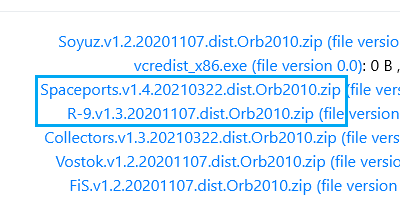
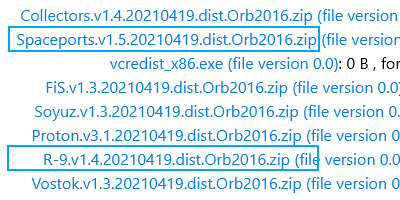
Updated download links for Igel's addon

Changed region(s): [[0.0, 0.03, 1.0, 0.99]]

diff --git a/mods/r-9-install.html b/mods/r-9-install.html
@@ -18,51 +18,35 @@
     <h1>R-9 MODのダウンロード・インストール</h1>
 
 
-    <p><strong>R-9 v1.3</strong>は、<a href="/basic/orbiter2010.html">Orbiter2010</a>でR-9 ICBMを再現したMODです。<br>
-      Orbiter2016には対応していません。</p>
-    <p>こちらの文章もあわせてお読みください。<br>
+    <p>
+      <strong>R-9 v1.3</strong>は、R-9 ICBMを再現したMODです。
+    </p>
+
+    <p>
+      こちらの文章もあわせてお読みください。<br>
       <a href="/misc/r-9-icbm.html">R-9 ICBMの歴史（翻訳）</a>
     </p>
 
     <nav>
       <ul>
-        <li>
-          <a href="#download">ダウンロード</a>
-        </li>
-        <li>
-          <a href="#install">インストール</a>
+        <li><a href="#download">ダウンロード</a></li>
+        <li><a href="#install">インストール</a>
           <ul>
-            <li>
-              <a href="#install_shutdown">シャットダウン方法の設定</a>
-            </li>
+            <li><a href="#install_shutdown">シャットダウン方法の設定</a></li>
           </ul>
         </li>
-        <li>
-          <a href="#scenarios">シナリオ</a>
+        <li><a href="#scenarios">シナリオ</a>
           <ul>
-            <li>
-              <a href="#scenarios_demo">R-9 Demos</a>
-            </li>
-            <li>
-              <a href="#scenarios_historical">R-9 Historical Tests</a>
-            </li>
-            <li>
-              <a href="#scenarios_warstrikes">R-9 War Strikes</a>
-            </li>
+            <li><a href="#scenarios_demo">R-9 Demos</a></li>
+            <li><a href="#scenarios_historical">R-9 Historical Tests</a></li>
+            <li><a href="#scenarios_warstrikes">R-9 War Strikes</a></li>
           </ul>
         </li>
-        <li>
-          <a href="#key">キー操作一覧</a>
+        <li><a href="#key">キー操作一覧</a>
           <ul>
-            <li>
-              <a href="#key_rocket">ロケットなどの操作</a>
-            </li>
-            <li>
-              <a href="#key_des_n">Desna-N（地上発射用のテーブル）</a>
-            </li>
-            <li>
-              <a href="#key_des_v">Desna-V（地下サイロ）</a>
-            </li>
+            <li><a href="#key_rocket">ロケットなどの操作</a></li>
+            <li><a href="#key_des_n">Desna-N（地上発射用のテーブル）</a></li>
+            <li><a href="#key_des_v">Desna-V（地下サイロ）</a></li>
           </ul>
         </li>
       </ul>
@@ -72,13 +56,18 @@
     <h2 id="download">ダウンロード</h2>
 
 
+    <p class="caution">
+      2024年4月現在、<strong>Orbiter2010</strong>対応版はダウンロードできなくなっています。
+    </p>
+
     <p>
       以下のリンクをクリック。
     </p>
 
     <p>
-      <a href="https://www.orbithangar.com/showAddon.php?id=dcaa4ea8-711a-46c7-a167-49e7254da801"
-        target="_blank">Orb2010 VesselM Pack</a>
+      <a href="https://web.archive.org/web/20211028123939/https://www.orbithangar.com/showAddon.php?id=0bb66462-d9cc-4f68-95f3-482bc319a5c7"
+        target="_blank" rel="noopener noreferrer">Orb2016 VesselM Pack</a><br>
+      （Internet Archiveへのリンク。このMODは再配布が許可されています）
     </p>
 
     <p>
@@ -91,16 +80,14 @@
       <li>R-9.v1.3.20201107.dist.Orb2010.zip</li>
     </ul>
 
+    <p>
+      <strong>Internet Archive</strong>のリンクの場合は、ダウンロードリンクを右クリック。<br>
+      <kbd>名前を付けてリンク先を保存</kbd>をクリックするとダウンロードが開始する。
+    </p>
+
     <figure>
       <img loading="lazy" src="/images/mods/r-9-install/000.png" alt="ダウンロードリンク" width="400" height="200">
     </figure>
-
-    <p><strong>Baikonur 2010</strong>を導入すると、基地周辺のテクスチャが向上する。<br>
-      必要がなければ導入しなくてもよい。</p>
-
-    <p>
-      <a href="/iss/baikonur-2010-surface-tiles-v10.html" target="_blank">Baikonur 2010: Surface Tiles v1.0のインストール</a>
-    </p>
 
 
     <h2 id="install">インストール</h2>
@@ -114,7 +101,6 @@
     </p>
 
     <ol>
-      <li>Baikonur 2010（オプション）</li>
       <li>Spaceports.v1.4</li>
       <li>R-9.v1.3</li>
     </ol>

diff --git a/mods/vostok-install.html b/mods/vostok-install.html
@@ -61,20 +61,29 @@
       <strong>Orbiter2016</strong>対応版には<a href="#bugs">いくつか不具合があります。</a>
     </p>
 
+    <p class="caution">
+      2024年4月現在、<strong>Orbiter2010</strong>版はダウンロードできなくなっています。
+    </p>
+
     <table class="center1col">
       <tr>
         <th>対応バージョン</th>
         <th>ダウンロードリンク</th>
       </tr>
       <tr>
-        <td><strong>Orbiter2010</strong></td>
-        <td><a href="https://www.orbithangar.com/showAddon.php?id=dcaa4ea8-711a-46c7-a167-49e7254da801" target="_blank"
-            rel="noopener noreferrer">Orb2010 VesselM Pack</a></td>
+        <td><s><strong>Orbiter2010</strong></s></td>
+        <td><s>
+            <a href="https://www.orbithangar.com/showAddon.php?id=dcaa4ea8-711a-46c7-a167-49e7254da801" target="_blank"
+              rel="noopener noreferrer">Orb2010 VesselM Pack</a>
+          </s></td>
       </tr>
       <tr>
         <td><strong>Orbiter2016</strong></td>
-        <td><a href="https://www.orbithangar.com/showAddon.php?id=0bb66462-d9cc-4f68-95f3-482bc319a5c7" target="_blank"
-            rel="noopener noreferrer">Orb2016 VesselM Pack</a></td>
+        <td>
+          <a href="https://web.archive.org/web/20211028123939/https://www.orbithangar.com/showAddon.php?id=0bb66462-d9cc-4f68-95f3-482bc319a5c7"
+            target="_blank" rel="noopener noreferrer">Orb2016 VesselM Pack</a><br>
+          （Internet Archiveへのリンク。このMODは再配布が許可されています）
+        </td>
       </tr>
     </table>
 
@@ -83,6 +92,11 @@
     <p>
       <strong>Vostok</strong>と書かれているリンクをクリック。<br>
       同様に、<strong>Spaceports</strong>もダウンロードする。
+    </p>
+
+    <p>
+      <strong>Internet Archive</strong>のリンクの場合は、ダウンロードリンクを右クリック。<br>
+      <kbd>名前を付けてリンク先を保存</kbd>をクリックするとダウンロードが開始する。
     </p>
 
     <figure>
@@ -234,7 +248,7 @@
     </ul>
 
     <p>
-      完全な状態でプレイしたい場合は、<a href="/basic/orbiter2010.html">Orbiter2010</a>を導入してください。
+      <s>完全な状態でプレイしたい場合は、<a href="/basic/orbiter2010.html">Orbiter2010</a>を導入してください。</s>
     </p>
 
   </main>
